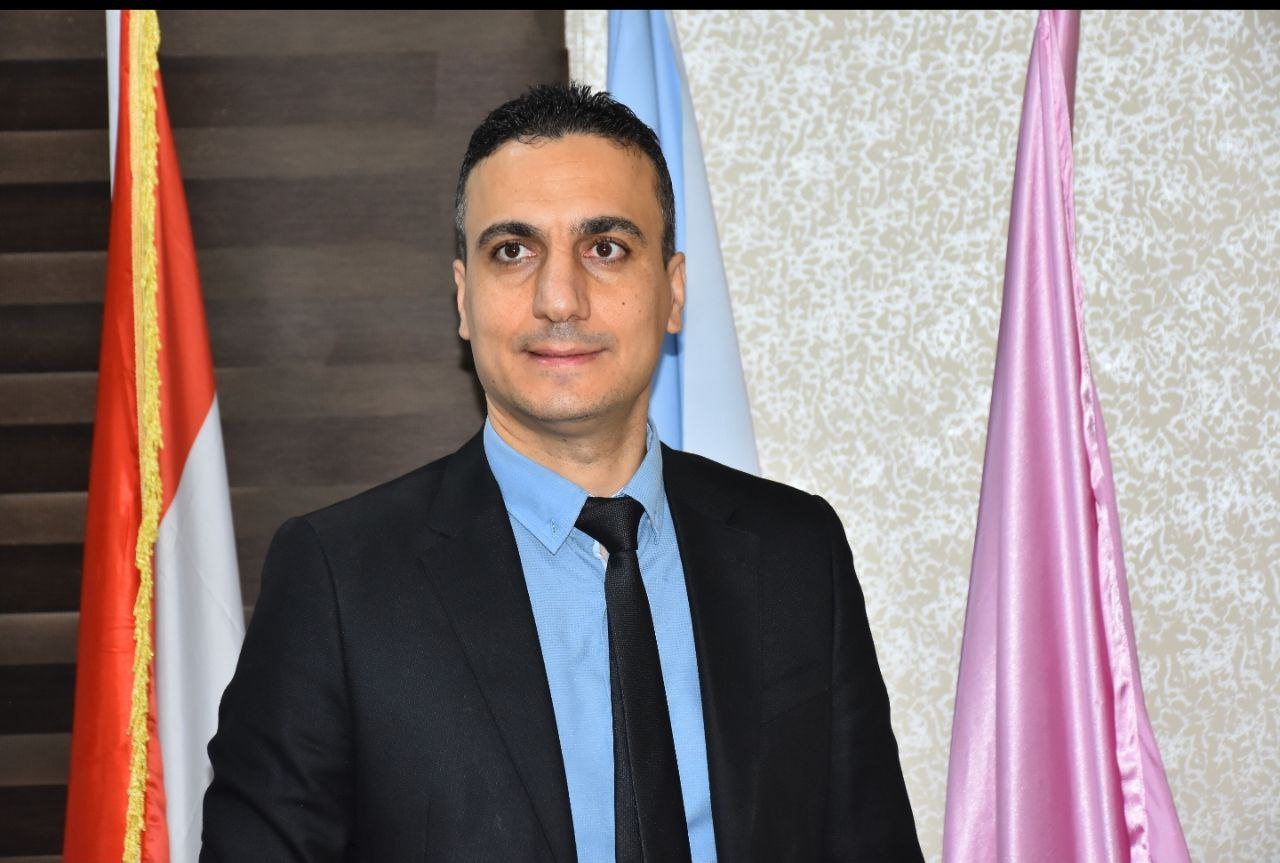
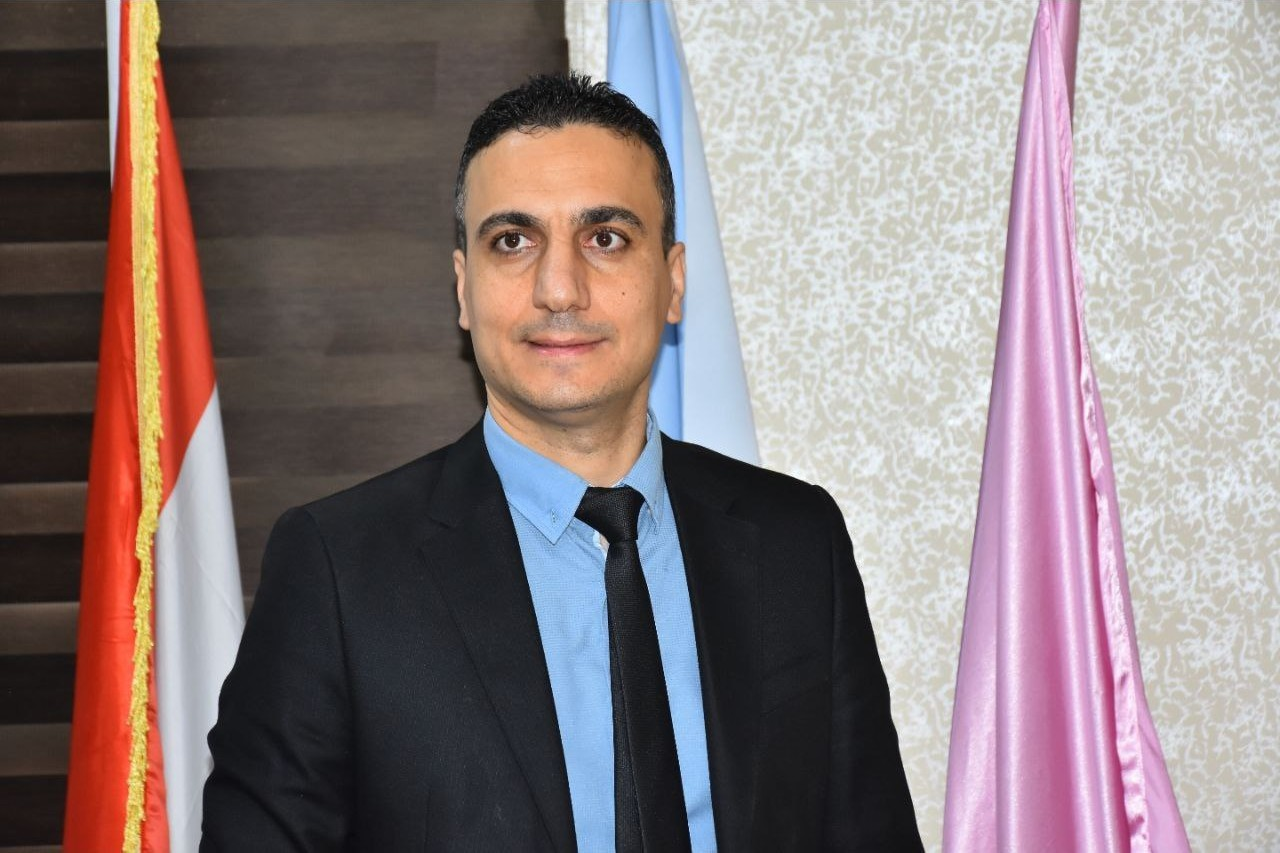
Hero photo: fill the frame with the doctor centered
Trimmed the black strip at the top of the photo, centered the crop on the
doctor and let the image use more width on phones and tablets.

Claude-Session: https://claude.ai/code/session_015bXyaT7yeqvcthHfE3CeSc

diff --git a/src/components/dental/Hero.tsx b/src/components/dental/Hero.tsx
@@ -135,7 +135,7 @@ const Hero = ({ onBookingClick }: HeroProps) => {
             initial={{ opacity: 0, x: dir === "rtl" ? -30 : 30 }}
             animate={{ opacity: 1, x: 0 }}
             transition={{ duration: 0.6, delay: 0.2 }}
-            className="relative w-full max-w-[22rem] sm:max-w-md mx-auto xl:max-w-none"
+            className="relative w-full max-w-[24rem] sm:max-w-lg mx-auto xl:max-w-none"
           >
             <div className="relative">
               {/* Main image */}
@@ -143,7 +143,7 @@ const Hero = ({ onBookingClick }: HeroProps) => {
                 <img
                   src={drSaleem}
                   alt="Dr. Saleem Andraws - Dental Specialist"
-                  className="w-full h-auto object-cover aspect-[4/5]"
+                  className="w-full h-auto object-cover object-[37%_center] aspect-[4/5]"
                 />
                 <div className="absolute inset-0 bg-gradient-to-t from-black/20 to-transparent" />
               </div>
